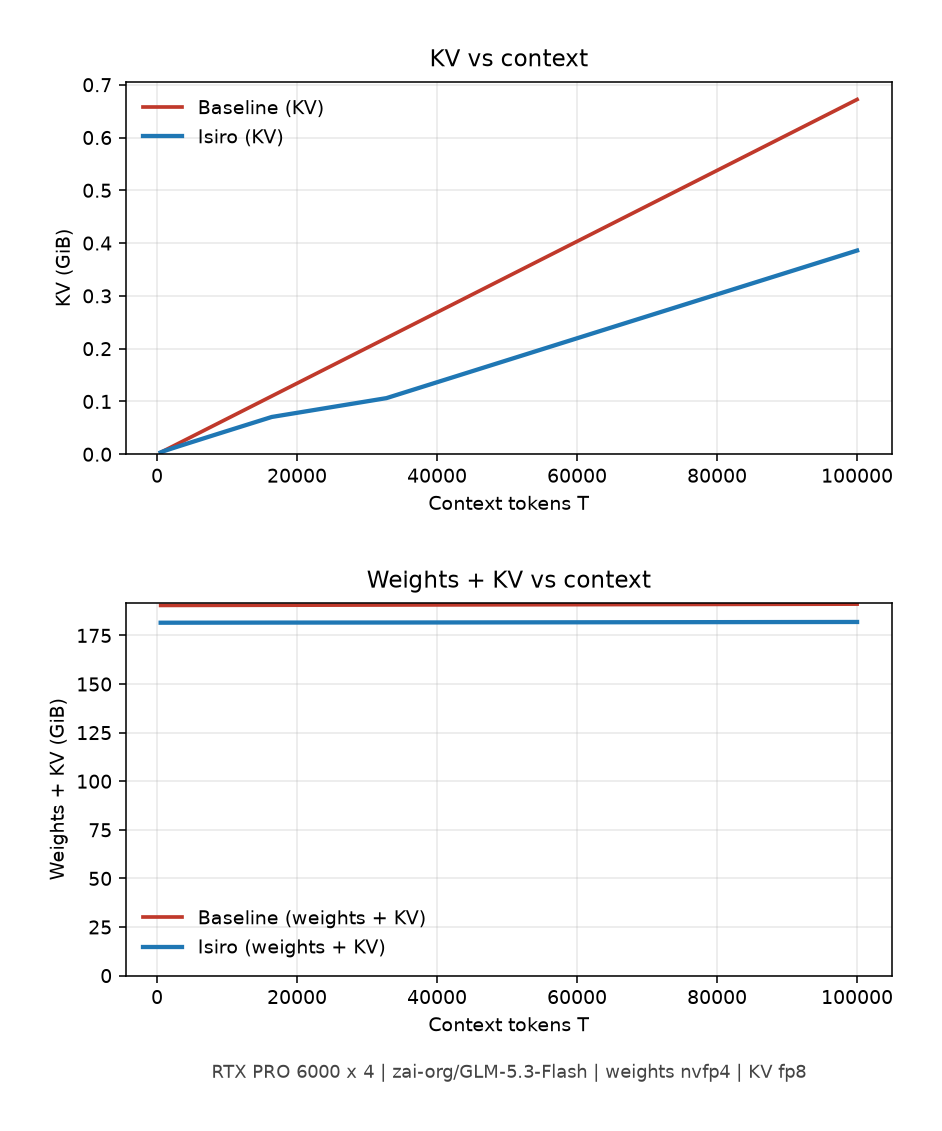
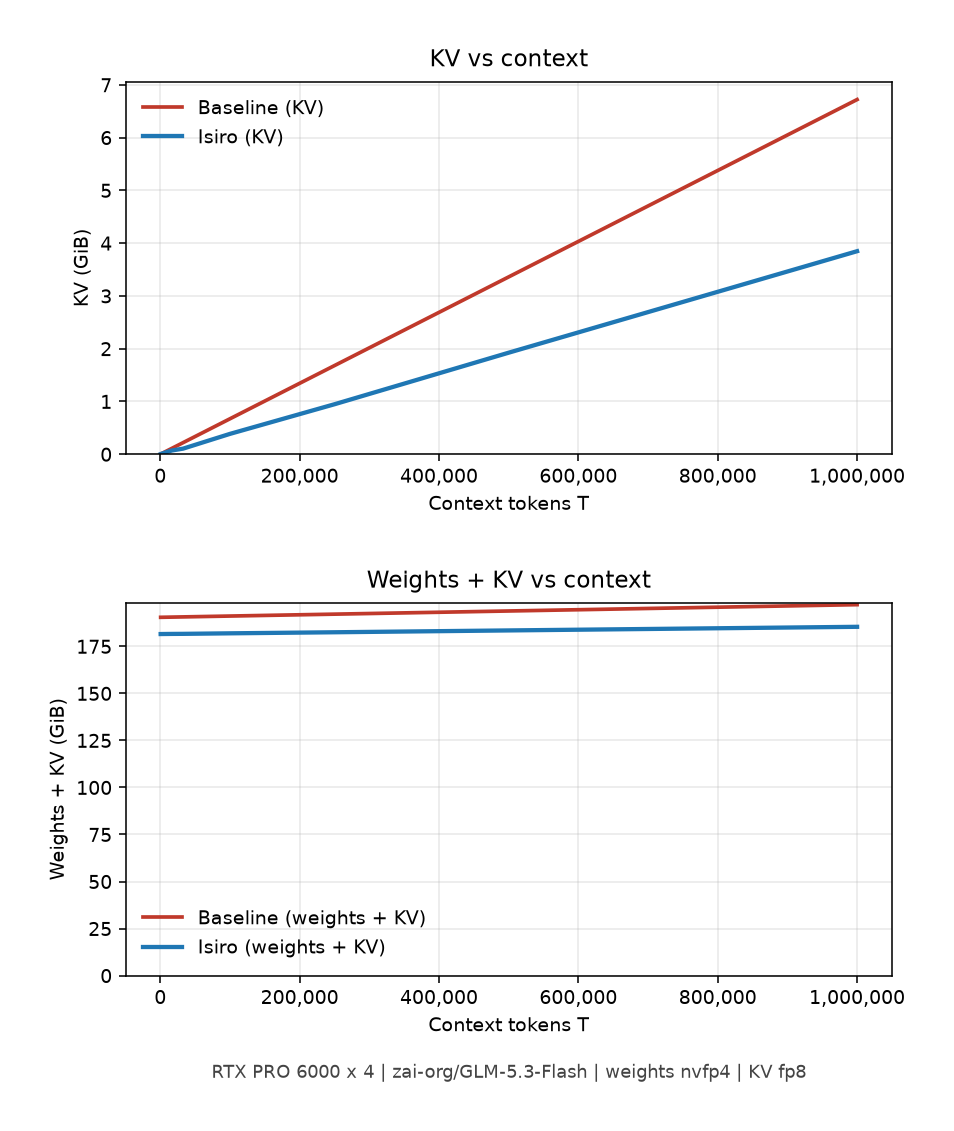
Extend GLM GDX report to 1M KV curve and bench percentiles.
Comma-format context axis, tile MLA latent pack beyond capture for T=1M, and publish vllm bench serve p50/p95/p99 ITL/TPOT/TTFT beside the graphs-on twin.

diff --git a/benchmarks/scripts/gdx_kv_bytes_curve.py b/benchmarks/scripts/gdx_kv_bytes_curve.py
@@ -410,16 +410,29 @@ def measure_curve_from_mla_latent(
             "error": "no positive token lengths",
             "points": [],
         }
-    if int(tok_list[-1]) > max_t_pages:
-        return {
-            "schema": SCHEMA,
-            "ok": False,
-            "error": (
-                f"tokens max {tok_list[-1]} exceeds mla latent T={max_t_pages}"
-            ),
-            "points": [],
-        }
+    # T beyond capture: tile measured latent in capture-sized chunks and sum
+    # packed nbytes (remeter pack without a multi-GB recapture array).
+    tiled = bool(int(tok_list[-1]) > max_t_pages)
     fa_bpv = _fa_bpv(a)
+    pack_len_cache: dict[int, tuple[int, float]] = {}
+
+    def _pack_cold_len(need_t: int) -> tuple[int, float]:
+        need_t = int(need_t)
+        if need_t in pack_len_cache:
+            return pack_len_cache[need_t]
+        gdx = 0
+        bpv_acc = 0.0
+        n_pack = 0
+        for li in range(n_layers):
+            page = lat[li : li + 1, :need_t, None, :]
+            packed, bpv = _pack_codes_nbytes(a, page)
+            gdx += int(packed)
+            bpv_acc += float(bpv)
+            n_pack += 1
+        out = (int(gdx), float(bpv_acc / max(n_pack, 1)))
+        pack_len_cache[need_t] = out
+        return out
+
     points: list[dict[str, Any]] = []
     for T in tok_list:
         hot_t = min(int(T), int(live_window))
@@ -428,15 +441,23 @@ def measure_curve_from_mla_latent(
         fa_all = int(n_layers * int(T) * dim * fa_bpv) // 8
         fa_hot = int(n_layers * hot_t * dim * fa_bpv) // 8
         gdx_cold = 0
-        bpv_acc = 0.0
-        n_pack = 0
+        payload_bpv: float | None = None
         if cold_t > 0:
-            for li in range(n_layers):
-                page = lat[li : li + 1, :cold_t, None, :]  # [1,cold,1,D]
-                packed, bpv = _pack_codes_nbytes(a, page)
-                gdx_cold += int(packed)
-                bpv_acc += float(bpv)
-                n_pack += 1
+            need_t = int(cold_t)
+            if need_t <= max_t_pages:
+                gdx_cold, payload_bpv = _pack_cold_len(need_t)
+            else:
+                n_full, rem = divmod(need_t, max_t_pages)
+                full_nb, full_bpv = _pack_cold_len(max_t_pages)
+                gdx_cold = int(n_full) * int(full_nb)
+                bpv_w = float(full_bpv) * float(n_full) * float(max_t_pages)
+                denom = float(n_full) * float(max_t_pages)
+                if rem > 0:
+                    rem_nb, rem_bpv = _pack_cold_len(rem)
+                    gdx_cold += int(rem_nb)
+                    bpv_w += float(rem_bpv) * float(rem)
+                    denom += float(rem)
+                payload_bpv = float(bpv_w / max(denom, 1.0))
         gdx_total = int(gdx_cold + fa_hot)
         if cold_t < 1:
             points.append(
@@ -460,7 +481,9 @@ def measure_curve_from_mla_latent(
                 "gdx_cold_nbytes": int(gdx_cold),
                 "gdx_total_nbytes": int(gdx_total),
                 "save_vs_fa": float(save),
-                "payload_bpv": float(bpv_acc / max(n_pack, 1)),
+                "payload_bpv": (
+                    None if payload_bpv is None else float(payload_bpv)
+                ),
             }
         )
     ok, err_msg = _gate_curve_points(points, fa_bpv=fa_bpv)
@@ -477,7 +500,11 @@ def measure_curve_from_mla_latent(
         "layers": int(n_layers),
         "kv_heads": 1,
         "head_dim": int(dim),
-        "fa_twin_mode": "mla_latent_full_sequence",
+        "fa_twin_mode": (
+            "mla_latent_tiled_sequence" if tiled else "mla_latent_full_sequence"
+        ),
+        "capture_t": int(max_t_pages),
+        "tiled_beyond_capture": bool(tiled),
         "sliding_window": None,
         "n_sliding_layers": 0,
         "n_full_layers": int(n_layers),
@@ -960,11 +987,15 @@ def render_png(
 
     matplotlib.use("Agg")
     import matplotlib.pyplot as plt
+    from matplotlib.ticker import FuncFormatter
 
     _scripts = str(Path(__file__).resolve().parent)
     if _scripts not in sys.path:
         sys.path.insert(0, _scripts)
     from needle_haystack import figure_tagline
+
+    def _comma_x(val: float, _pos: int) -> str:
+        return f"{int(round(val)):,}"
 
     pts = list(doc.get("points") or [])
     if not pts:
@@ -1005,6 +1036,7 @@ def render_png(
         ax0.set_xlabel("Context tokens T")
         ax0.set_ylabel("KV (GiB)")
         ax0.set_ylim(bottom=0.0)
+        ax0.xaxis.set_major_formatter(FuncFormatter(_comma_x))
         ax0.tick_params(axis="x", labelbottom=True)
         ax0.grid(True, alpha=0.28)
         ax0.legend(frameon=False, loc="upper left")
@@ -1028,6 +1060,7 @@ def render_png(
         ax1.set_xlabel("Context tokens T")
         ax1.set_ylabel("Weights + KV (GiB)")
         ax1.set_ylim(bottom=0.0)
+        ax1.xaxis.set_major_formatter(FuncFormatter(_comma_x))
         ax1.tick_params(axis="x", labelbottom=True)
         ax1.grid(True, alpha=0.28)
         ax1.legend(frameon=False, loc="lower left")
@@ -1055,6 +1088,7 @@ def render_png(
         ax.set_xlabel("Context tokens T")
         ax.set_ylabel("KV (GiB)")
         ax.set_ylim(bottom=0.0)
+        ax.xaxis.set_major_formatter(FuncFormatter(_comma_x))
         ax.grid(True, alpha=0.28)
         ax.legend(frameon=False)
         bottom = 0.14

diff --git a/benchmarks/tests/test_gdx_vendor_pages_curve.py b/benchmarks/tests/test_gdx_vendor_pages_curve.py
@@ -126,6 +126,32 @@ class GdxVendorPagesCurveTests(unittest.TestCase):
             self.assertGreaterEqual(len(cold), 2)
             self.assertGreater(float(cold[-1]["save_vs_fa"]), 0.0)
 
+    def test_mla_latent_curve_tiles_beyond_capture(self) -> None:
+        from gdx_kv_bytes_curve import measure_curve_from_mla_latent
+
+        import numpy as np
+
+        with tempfile.TemporaryDirectory() as tmp:
+            root = Path(tmp)
+            rng = np.random.default_rng(5)
+            lat = np.zeros((2, 1024, 32), dtype=np.uint8)
+            lat[:, ::17, ::3] = rng.integers(1, 15, size=lat[:, ::17, ::3].shape)
+            npz = root / "mla.npz"
+            np.savez_compressed(npz, g0=lat)
+            doc = measure_curve_from_mla_latent(
+                "fp8",
+                tokens=[512, 2048],
+                mla_latent=npz,
+                live_window=512,
+                kv_cache_dtype="fp8_ds_mla",
+            )
+            if doc.get("error") and "not importable" in str(doc.get("error")):
+                self.skipTest("isiro_runtime not importable for GDX curve")
+            self.assertTrue(doc.get("ok"), doc.get("error"))
+            self.assertTrue(doc.get("tiled_beyond_capture"))
+            self.assertEqual(doc.get("fa_twin_mode"), "mla_latent_tiled_sequence")
+            self.assertEqual(int(doc["points"][-1]["T"]), 2048)
+
 
 if __name__ == "__main__":
     unittest.main()

diff --git a/benchmarks/glm-5.3-flash-nvfp4/rtx-pro-6000-blackwell-report/report.md b/benchmarks/glm-5.3-flash-nvfp4/rtx-pro-6000-blackwell-report/report.md
@@ -4,8 +4,9 @@
 
 Tooling:
 
-- Ambient twin scrape (`remeter_path_a_vs_vanilla.py`) on vast-glm (graphs-on; no Docker)
-- GDX KV-bytes curve from vendor MLA latent capture (`mla_latent_real_t100k.npz`, T=100000)
+- `vllm bench serve` (tok/s, ITL / TPOT / TTFT percentiles)
+- Ambient twin scrape (`remeter_path_a_vs_vanilla.py`) for NIAH / GDX ledger
+- GDX KV-bytes curve from vendor MLA latent capture (`mla_latent_real_t100k.npz`; T through 1,000,000 via tiled remeter)
 
 Compared:
 
@@ -53,22 +54,20 @@ Reserved pool is vendor admission slots, not GDX-coded cold capacity. Physical v
 Cold o1 slab vs synthetic twin (not nvidia-smi). After attach-ordinal fix, all 11 Full MLA layers deposit.
 
 
-| Metric                 | Value      |
-| ---------------------- | ---------- |
+| Metric                 | Value       |
+| ---------------------- | ----------- |
 | `n_deposit` / hooks    | **11 / 11** |
-| `save_vs_all_fa`       | **0.987**  |
-| `f_cold`               | 1.0        |
-| `slab_nbytes`          | 88976      |
-| `mla_latent_raw_bytes` | 6869632    |
+| `save_vs_all_fa`       | **0.987**   |
+| `f_cold`               | 1.0         |
+| `slab_nbytes`          | 88976       |
+| `mla_latent_raw_bytes` | 6869632     |
 
 
 `save_vs_all_fa = 1 - slab/raw` on deposited cold (W=512 live window stays twin-dense outside this ledger).
 
 ### KV vs context (coded cold)
 
-`ISIRO_GDX=fp8` on vendor MLA latent (`kv_source=vendor_mla_latent`, W=512). Capture T=100000. Hot window amortizes with T; at T=100000: Baseline twin **688.17 MiB**, Isiro total **395.17 MiB**; save **42.6%** (real latent pack rate, not the live ledger 0.987 on the short cold deposit).
-
-Calculated at T=1e6 with the measured cold rate (~0.572 of twin): save **≈42.8%** (asymptote of the curve pack rate). Label: calculated, not remetered.
+`ISIRO_GDX=fp8` on vendor MLA latent (`kv_source=vendor_mla_latent`, W=512). Capture T=100,000; points through T=1,000,000 remeter pack on tiled capture chunks (`fa_twin_mode=mla_latent_tiled_sequence`). At T=1,000,000: Baseline KV **6.88 GiB**, Isiro KV **3.94 GiB**; save **42.8%** (coded cold pack rate). Live ledger 0.987 remains the short deposited-prefix meter, not this full-sequence curve.
 
 Figure. Weights and KV vs 1-user context (tagline: `weights nvfp4 | KV fp8`).
 
@@ -76,27 +75,33 @@ Figure. Weights and KV vs 1-user context (tagline: `weights nvfp4 | KV fp8`).
 
 ## C. Capacity
 
+Concurrent requests are 10 on both sides. Not scaled from KV token capacity.
+
 
 | Metric              | Baseline | Isiro |
 | ------------------- | -------- | ----- |
 | Concurrent requests | 10       | 10    |
 
 
-### Generation (ambient stream scrape, graphs-on)
+### Generation (recall-matched KV, input 32 / output 256)
+
+Tok/s is aggregate system throughput across in-flight requests (`vllm bench serve`, `--temperature 0`, `--max-concurrency 10`, 40 prompts). Per-request decode rate is reflected by ITL/TPOT.
 
 
-| Metric               | Baseline | Isiro     |
-| -------------------- | -------- | --------- |
-| Stream tok/s         | 60.27    | 60.10     |
-| Stream ITL p50 (ms)  | 11.62    | **11.50** |
-| Stream TTFT (ms)     | 130.55   | **111.77** |
+| Metric                    | Baseline                | Isiro                   |
+| ------------------------- | ----------------------- | ----------------------- |
+| Output tok/s              | 451.94                  | **459.79**              |
+| ITL (ms) p50 / p95 / p99  | 19.61 / 23.86 / 27.15   | 21.04 / **21.63** / **22.20** |
+| TPOT (ms) p50 / p95 / p99 | **19.37** / **20.50** / 26.13 | 20.94 / 21.17 / **21.33** |
+| TTFT (ms) p50 / p95 / p99 | 306.44 / 1952.48 / 1952.86 | **230.50** / **325.33** / **325.94** |
 
 
-Isiro stream ITL p50 beats baseline on the matched graphs-on twin. Tok/s is within scrape noise of baseline.
+Isiro wins aggregate output tok/s and TTFT (especially p95/p99 under concurrency). ITL/TPOT p50 are slightly higher than baseline; ITL p95/p99 are tighter.
 
 ## Config
 
 - Baseline model: `/root/models/llm/fp4/GLM-5.3-Flash-NVFP4`
 - TIC model: `/root/models/llm/fp4/GLM-5.3-Flash-NVFP4-TIC` (`serve.yaml` as above)
-- `ISIRO_BENCH_MLA_LATENT_NPZ=/workspace/logs/mla_latent_real_t100k.npz`
-- Artifacts: `isiro_gdx_mla_graphs_scrape.json`, `vanilla_matched_scrape.json`, `gdx_kv_bytes_curve.json`, `kv-bytes-vs-context.png`
+- Bench: `isiro_gdx_bench_serve.json`, `vanilla_matched_bench_serve.json`
+- Curve: `gdx_kv_bytes_curve.json`, `kv-bytes-vs-context.png` (T through 1,000,000)
+- Ledger / NIAH: `isiro_gdx_mla_graphs_scrape.json`, `vanilla_matched_scrape.json`
